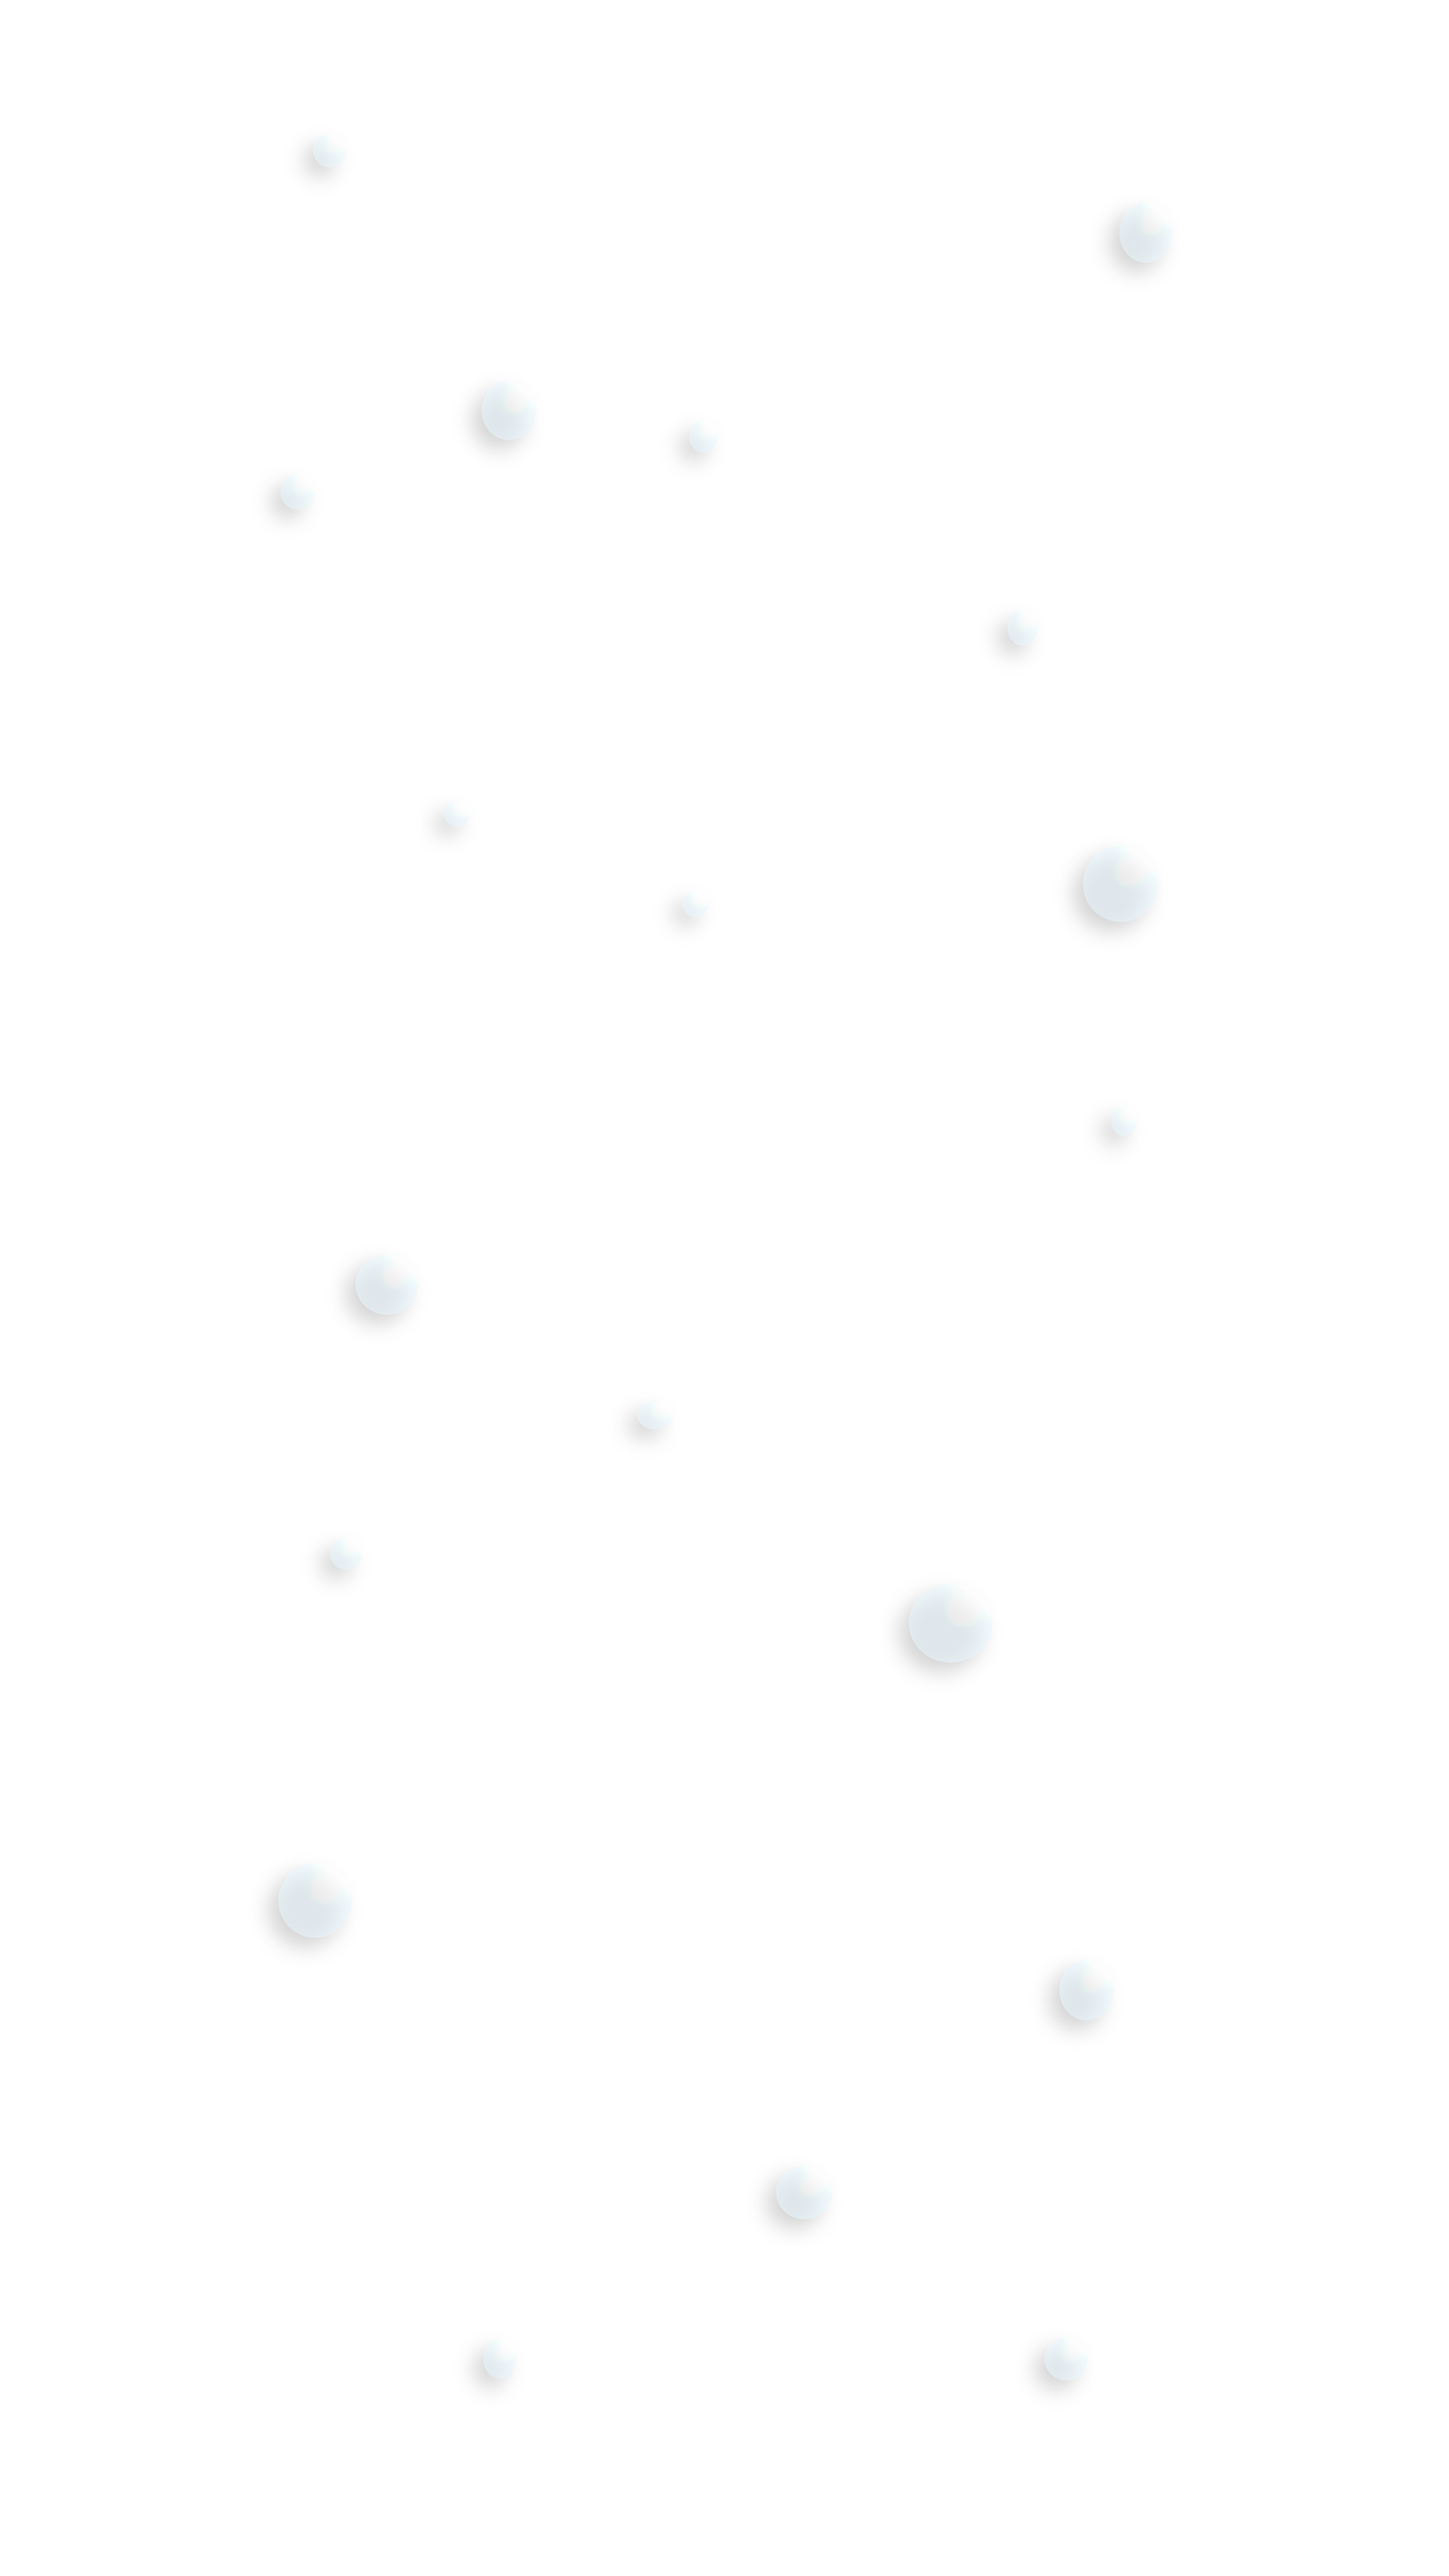
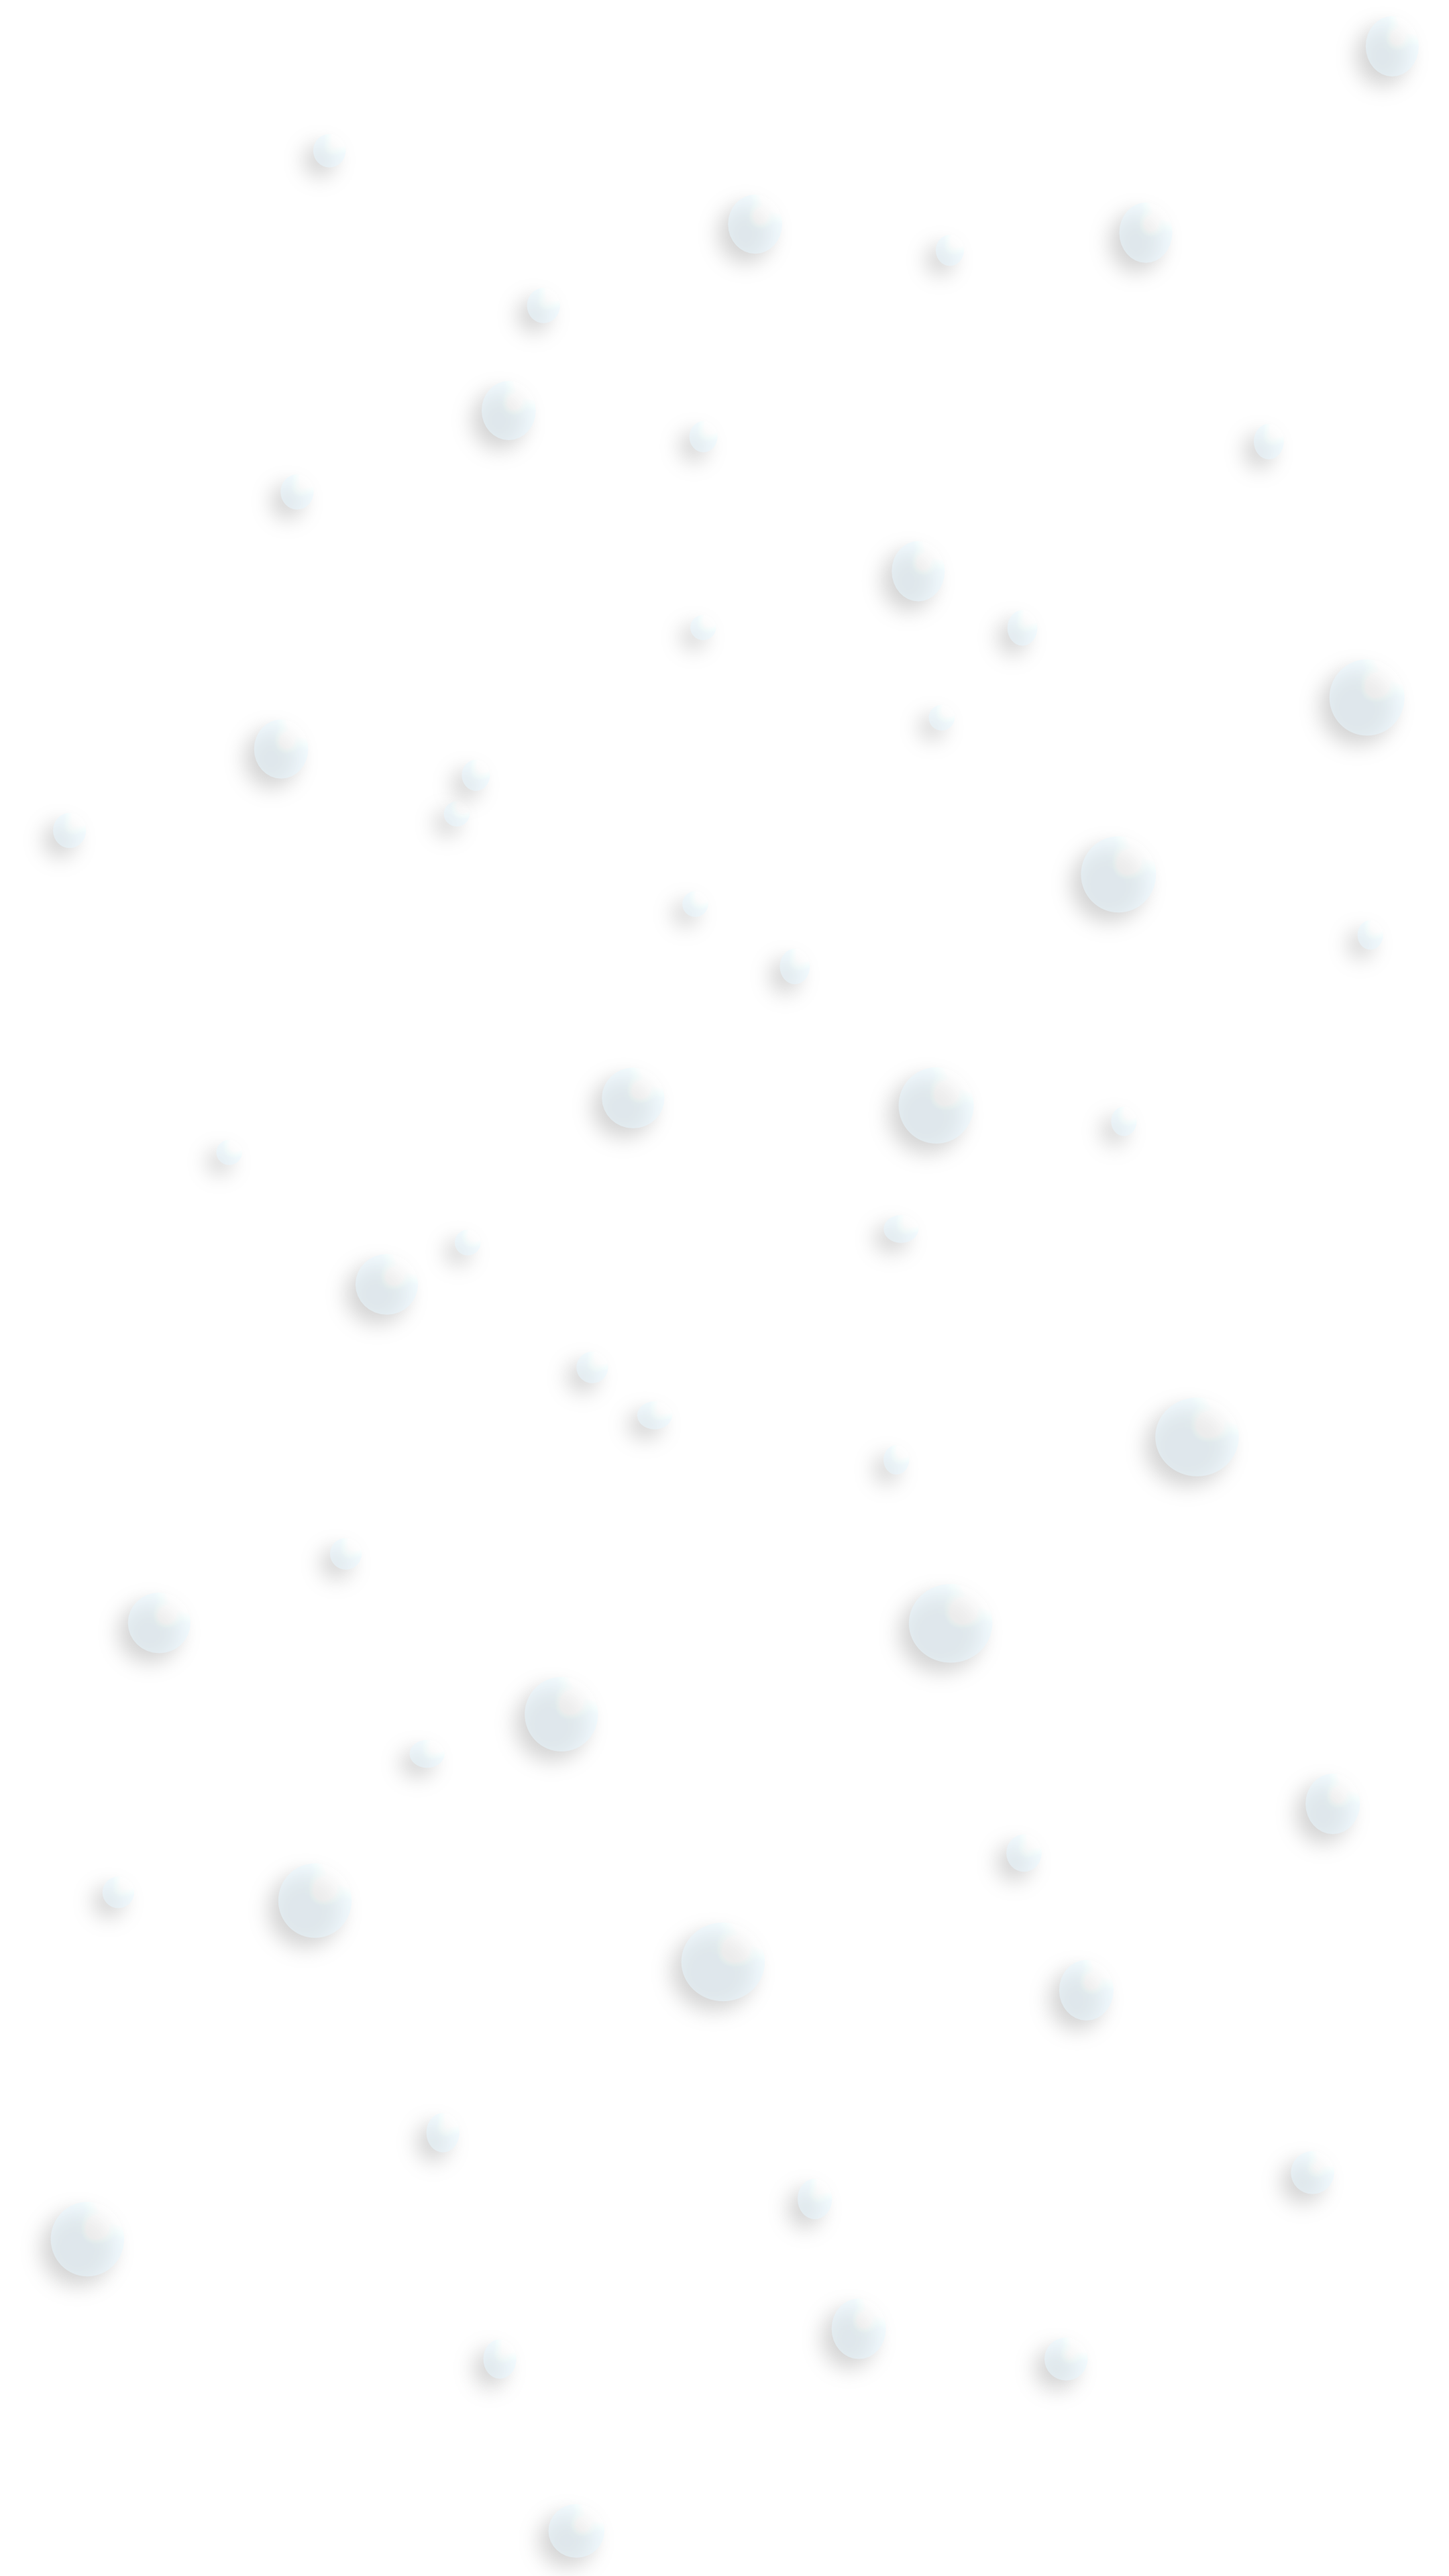
add animated bubbles

diff --git a/src/containers/search/search.js b/src/containers/search/search.js
@@ -1,5 +1,5 @@
 import React from "react";
-import Results from "../../components/results/results";
+import Results from "../results/results";
 import {connect} from 'react-redux';
 import * as actionTypes from '../../store/actions';
 import './search.css';
@@ -11,8 +11,8 @@ class Search extends React.Component {
   }
   render() {
       return (
-        <div>
-          <form className="container" onSubmit={(event) => this.submitZip(event)}>
+        <div className="container">
+          <form onSubmit={(event) => this.submitZip(event)}>
             <input 
             type="text" 
             placeholder="enter zip code"
@@ -20,7 +20,7 @@ class Search extends React.Component {
             ref={(input) => {this.zip = input;}} />
             <button className="btn-floating btn-small waves-effect waves-light red lighten-1"type="submit"><i className="large material-icons prefix">search</i></button>
           </form>
-          <p>For demo purposes the zip code is 00000.</p>
+          <p>Enter your zip code to see contaminant info for your tap water. For demo purposes the zip code is 00000.</p>
           <h1>
             Results:
           </h1>

diff --git a/src/App.css b/src/App.css
@@ -1,23 +1,18 @@
 .App {
   text-align: center;
+  z-index: 1000;
 }
 
-@media (prefers-reduced-motion: no-preference) {
+/* @media (prefers-reduced-motion: no-preference) {
   .App-logo {
     animation: App-logo-spin infinite 20s linear;
   }
-}
-.bubbles {
-  background: url('./img/factsolotlBubbles.png');
-  z-index: 1000;
-  background-size: cover;
-  background-repeat: repeat-y;
+} */
+
+.App-logo {
+  max-width: 30vh;
 }
 
-img {
-  max-width: 30vh;
-  
-}
 .App-header {
   min-height: 100vh;
   display: flex;
@@ -28,15 +23,32 @@ img {
   color: white;
 }
 
-.App-link {
-  color: #61dafb;
-}
-
+/* 
 @keyframes App-logo-spin {
   from {
     transform: rotate(0deg);
   }
   to {
     transform: rotate(360deg);
+  }
+} */
+
+
+.sliding-background {
+  background: url('./img/factsolotlBubbles.png')
+  repeat-y;
+  width: 2000px;
+  height: 5076px;
+  animation: slide 60s linear infinite;
+  position: absolute;
+  z-index: -1;
+}
+
+@keyframes slide{
+  0%{
+    transform: translate3d(0, 0, 0);
+  }
+  100%{
+    transform: translate3d(0, -1692px, 0);
   }
 }

diff --git a/src/App.js b/src/App.js
@@ -4,17 +4,15 @@ import './App.css';
 import Search from './containers/search/search';
 import factsolotl from './img/factsolotl.png';
 
+
 function App() {
   return (
     <div className="App">
-      <div className="bubbles">
-
-        <img src={factsolotl} alt="A pink cartoon axolotl"/>
-
+       <div className="sliding-background"></div>
+        <a href="https://www.scientificamerican.com/article/biologys-beloved-amphibian-the-axolotl-is-racing-toward-extinction1/" target="_blank"><img className="App-logo" src={factsolotl} alt="A pink cartoon axolotl"/></a>
         <header className="App-header">
           <Search />
         </header>
-      </div>
     </div>
   );
 }

diff --git a/src/index.css b/src/index.css
@@ -11,7 +11,8 @@ body {
   -moz-background-size: cover;
   -o-background-size: cover;
   background-size: cover;
-  z-index: -1;
+  overflow: hidden;
+
 }
 
 code {
